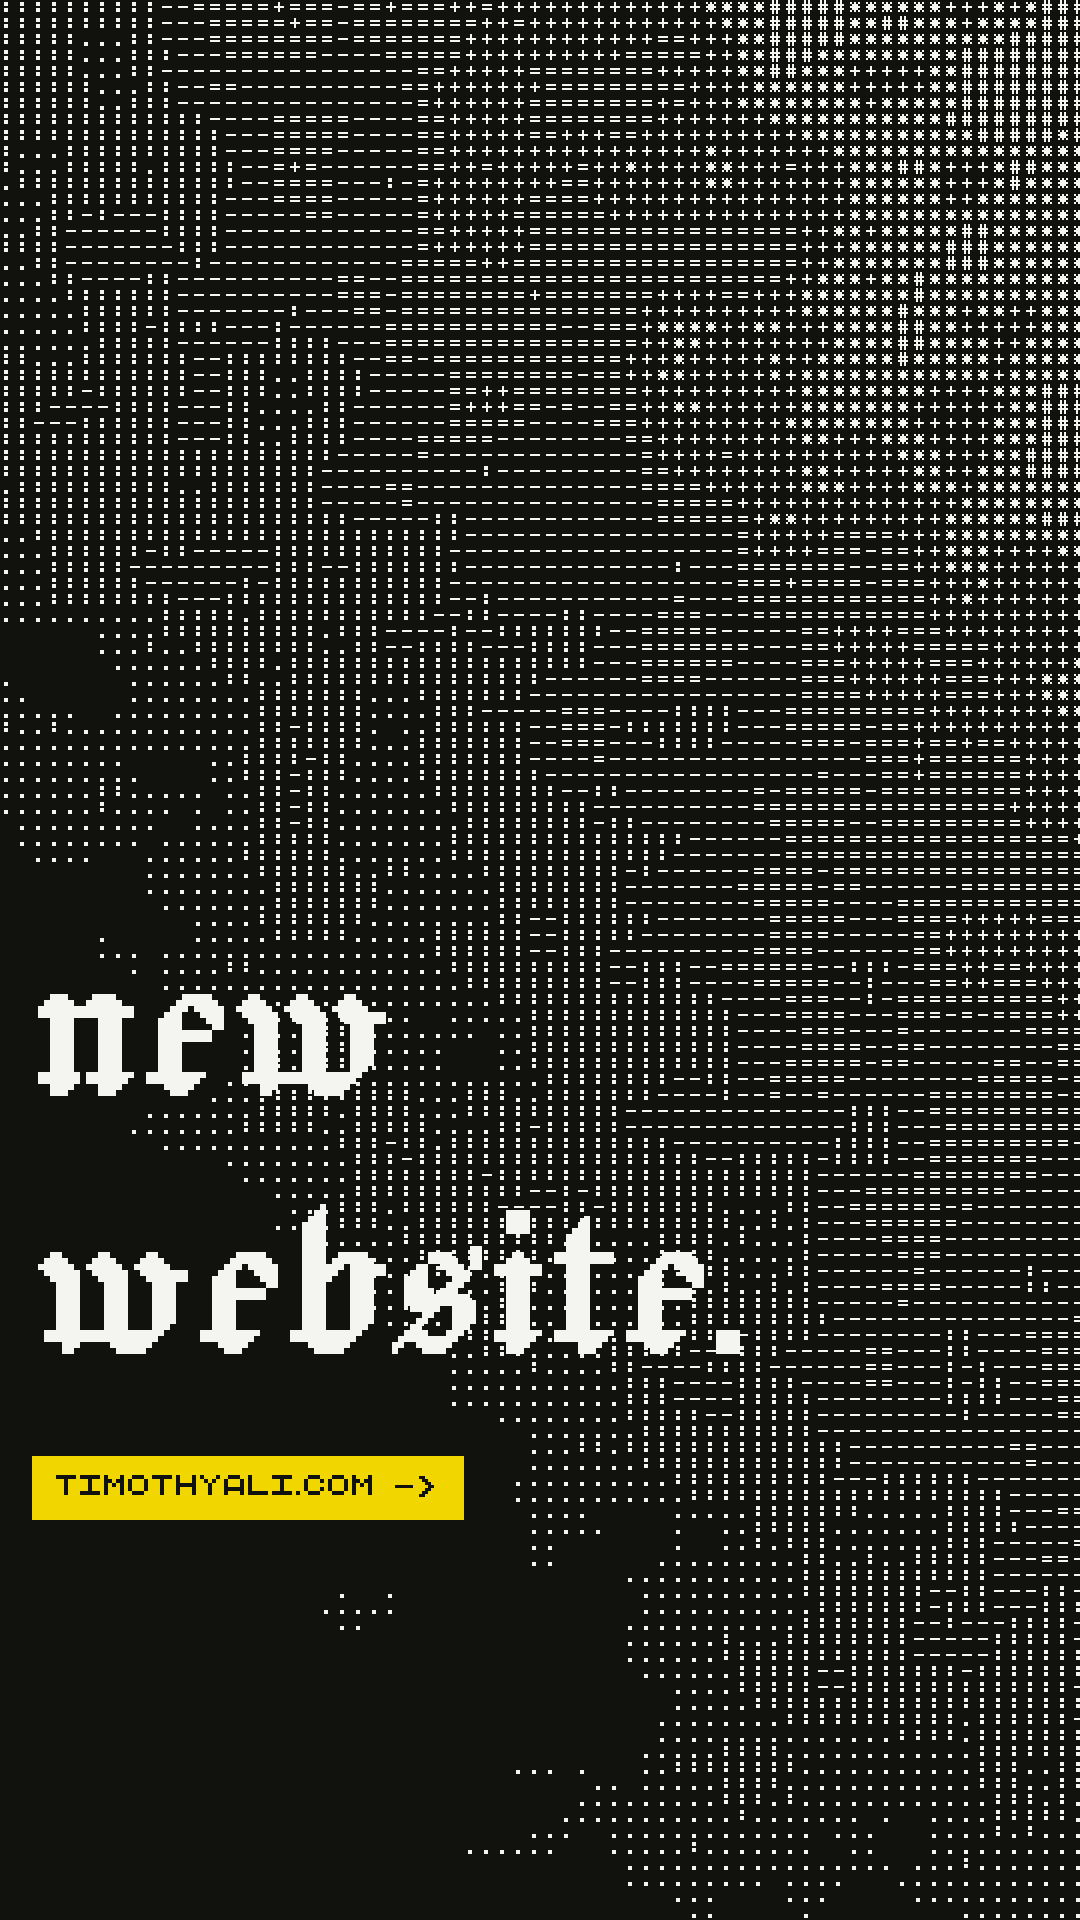
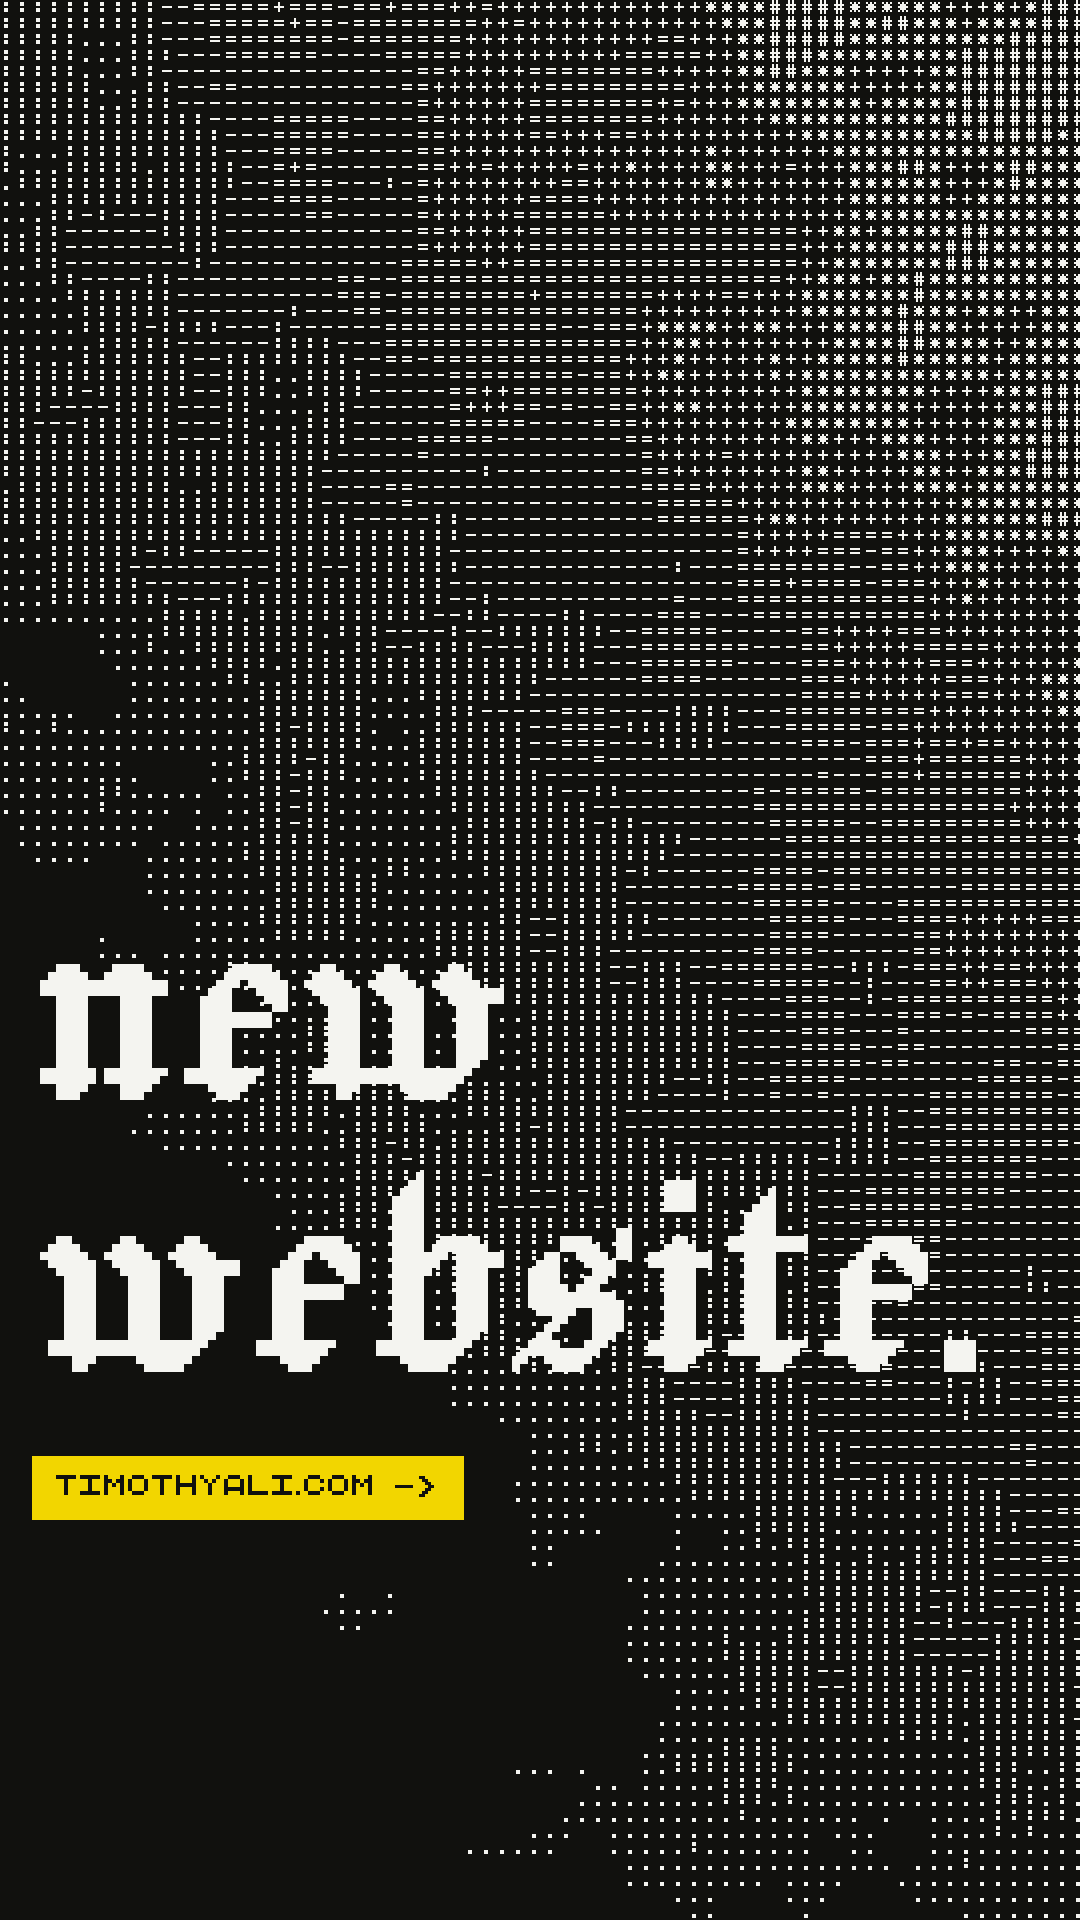
Social: story word at 344/272 (0087)

Changed region(s): [[0.0306, 0.5, 0.7639, 0.7188], [0.7639, 0.625, 0.8556, 0.7188], [0.8556, 0.6875, 0.9167, 0.7188]]

diff --git a/src/routes/og/[id]/+page.svelte b/src/routes/og/[id]/+page.svelte
@@ -73,7 +73,7 @@
 
 /* Story — full frame, no chrome (the generator hides it), content in the safe zone */
 .og.story{height:1920px}
-.og.story :global(.band){height:1920px;padding:0 var(--gutter) 400px;display:flex;flex-direction:column;justify-content:flex-end;align-items:flex-start;gap:var(--s6)}.story-name{font-size:258px;line-height:258px}
+.og.story :global(.band){height:1920px;padding:0 var(--gutter) 400px;display:flex;flex-direction:column;justify-content:flex-end;align-items:flex-start;gap:var(--s6)}.story-name{font-size:344px;line-height:272px}
 .og :global(.story-cta){font-size:25px;line-height:32px}
 .og :global(.story-cta .mono){font-size:24px;line-height:32px}
 

diff --git a/docs/decision-log.md b/docs/decision-log.md
@@ -1376,4 +1376,4 @@ Timothy found the first OG set boring compared with the site and requested the t
 
 **Decision.** Timothy cut the first composition (name, positioning line, four covers) down to three things: “new website.” in the lowercase blackletter at 258 on two lines, the sky field behind it, and the URL as the yellow `timothyali.com ->` block. It is one more id on the dev-only `/og/` route (`/og/story`), 1080×1920 with the layout chrome hidden by the generator; the block steps the label up its own ladder (12.5 → 25, arrow 16 → 24) because a story is seen at about a third of its pixels. Output: `docs/social/story-launch.png`, regenerated by `pnpm social:generate`.
 
-**Refinement (Timothy: “get rid of the boxes blocking out the texture”).** The field’s text knockout drew hard rectangles around the two lines; a softer fade (pad 0, feather 6, now exposed on `Band`) still read as a box. So the story has no knockout at all and does what the hero does: the words sit bottom-left, where the sky field is naturally open, 400px up so they clear Instagram’s reply bar.
+**Refinement (Timothy: “get rid of the boxes blocking out the texture”).** The field’s text knockout drew hard rectangles around the two lines; a softer fade (pad 0, feather 6, now exposed on `Band`) still read as a box. So the story has no knockout at all and does what the hero does: the words sit bottom-left, where the sky field is naturally open, 400px up so they clear Instagram’s reply bar. Then bigger and tighter on his call: 344 (the hero size) on a 272 line, since Jacquard’s lowercase carries no descenders in these words and a 1:1 leading left a hole between the lines.
